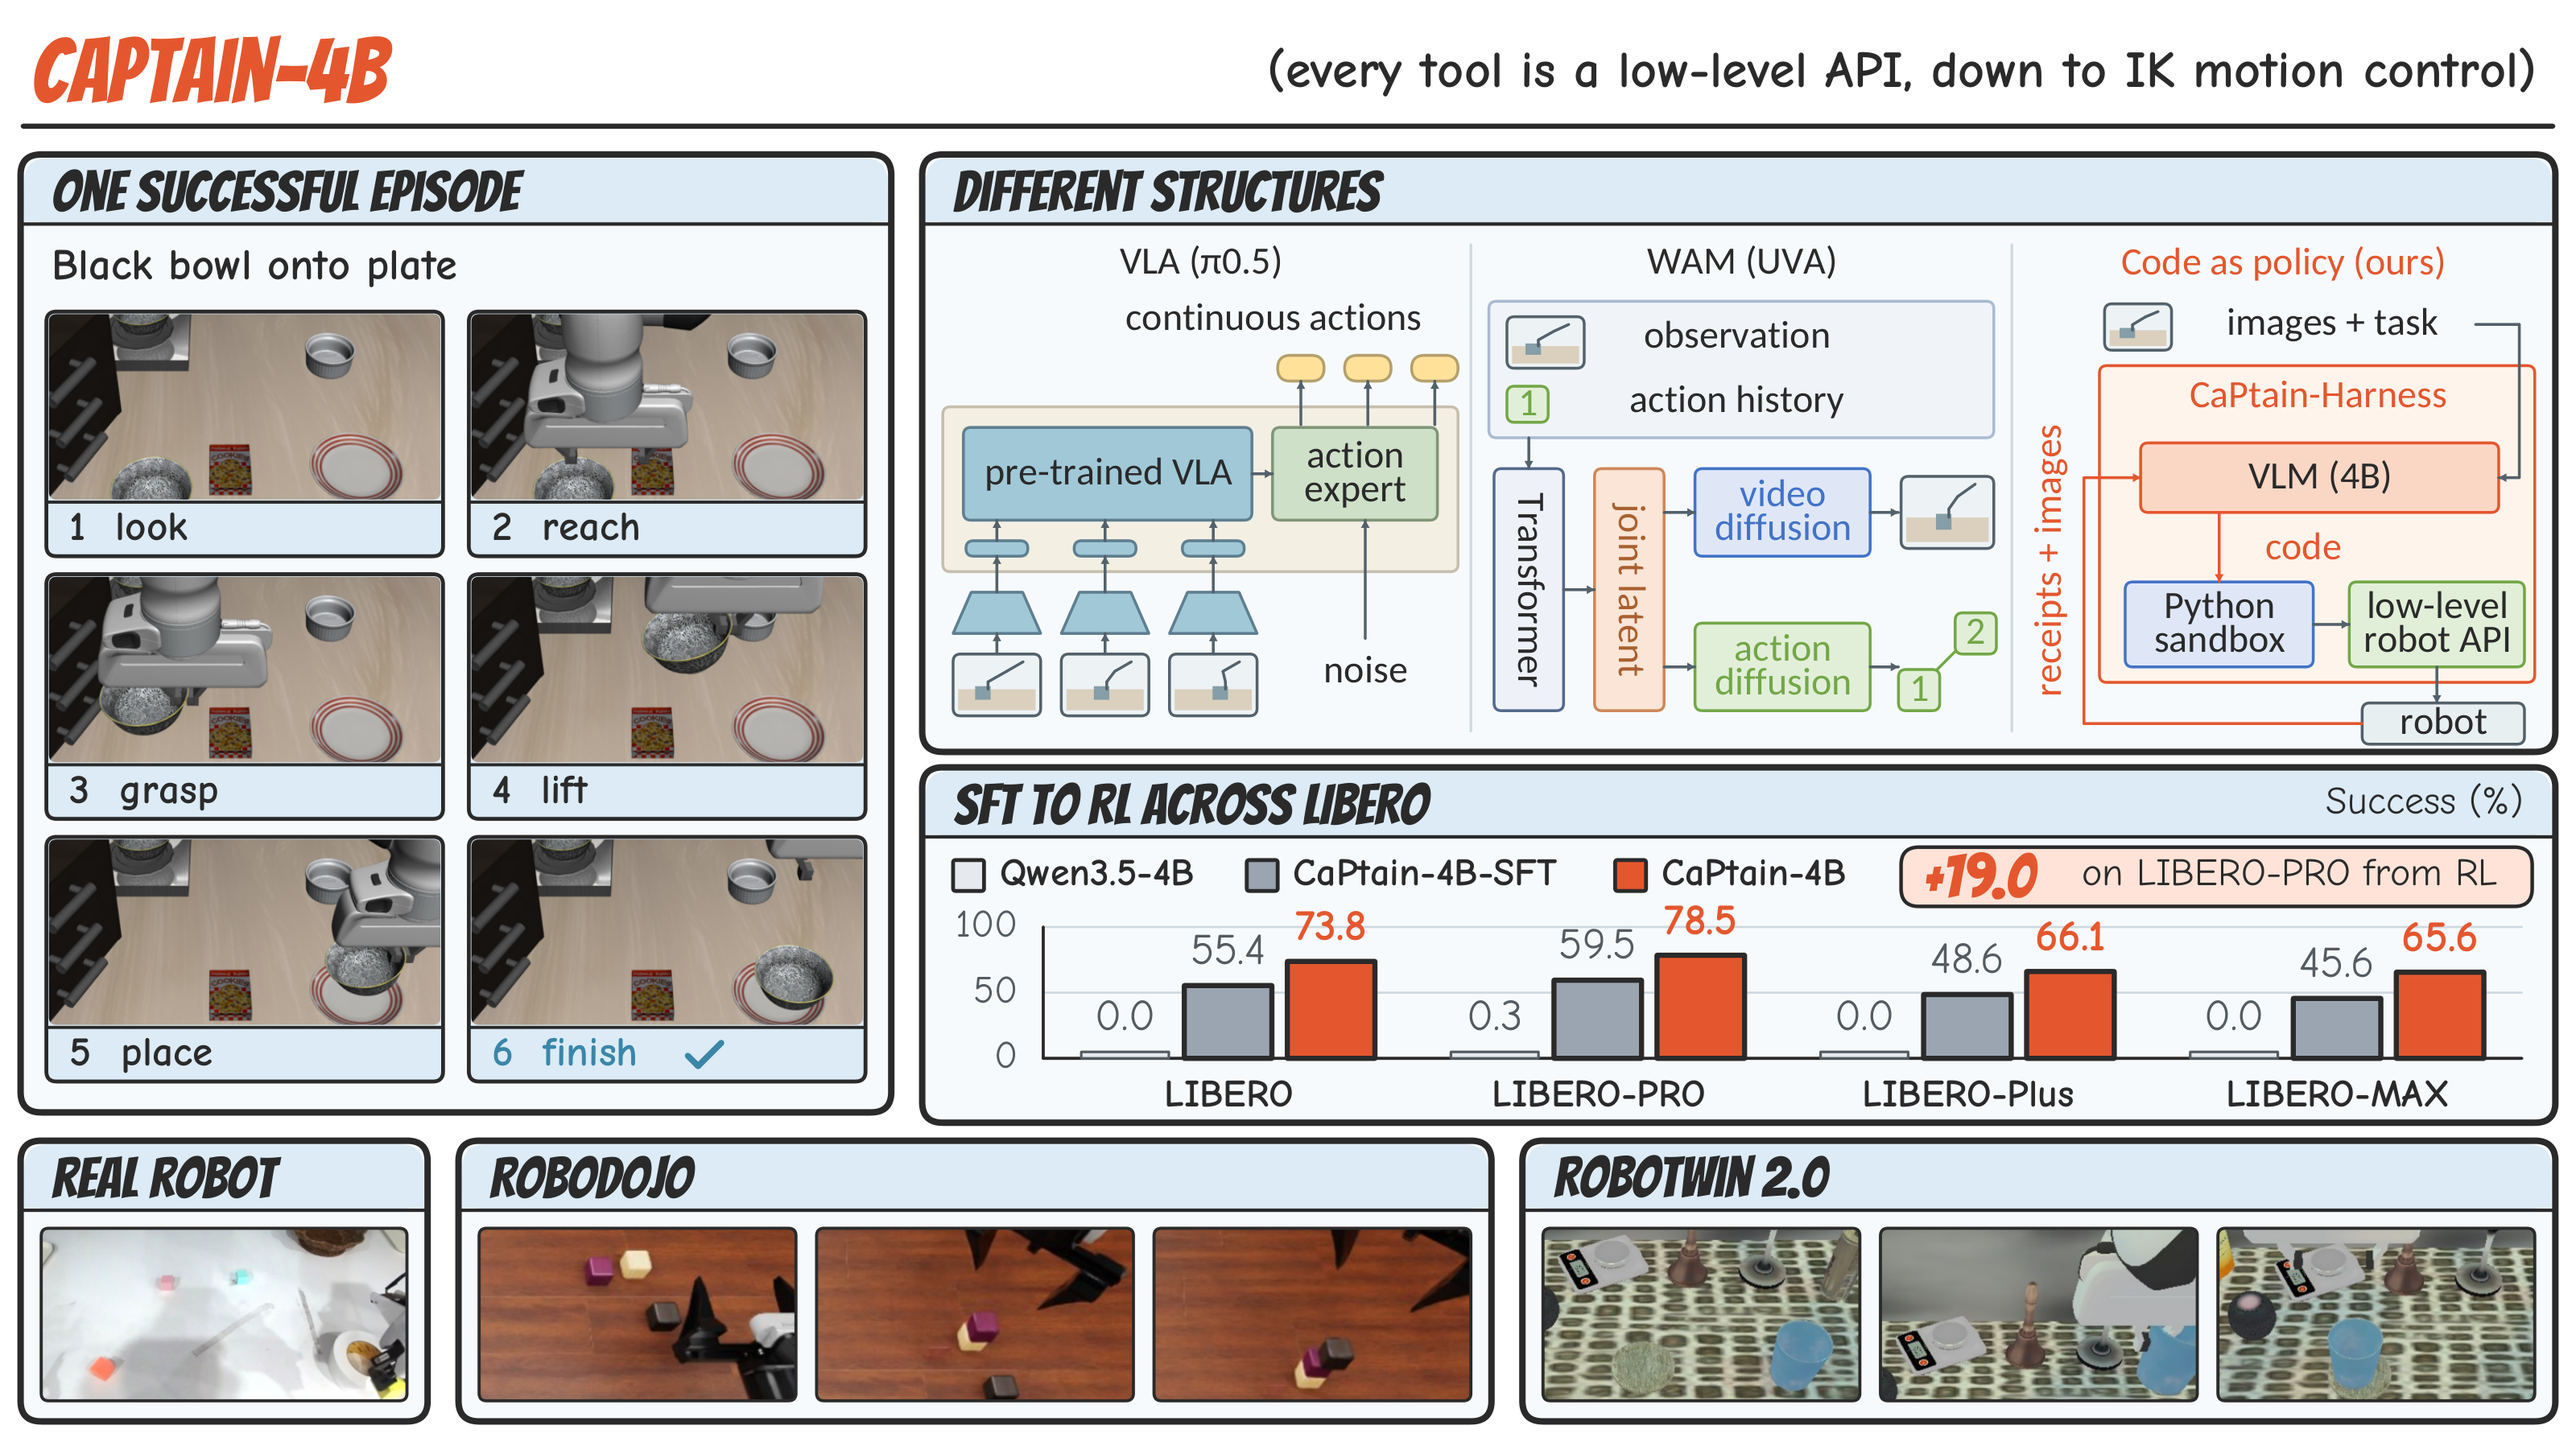
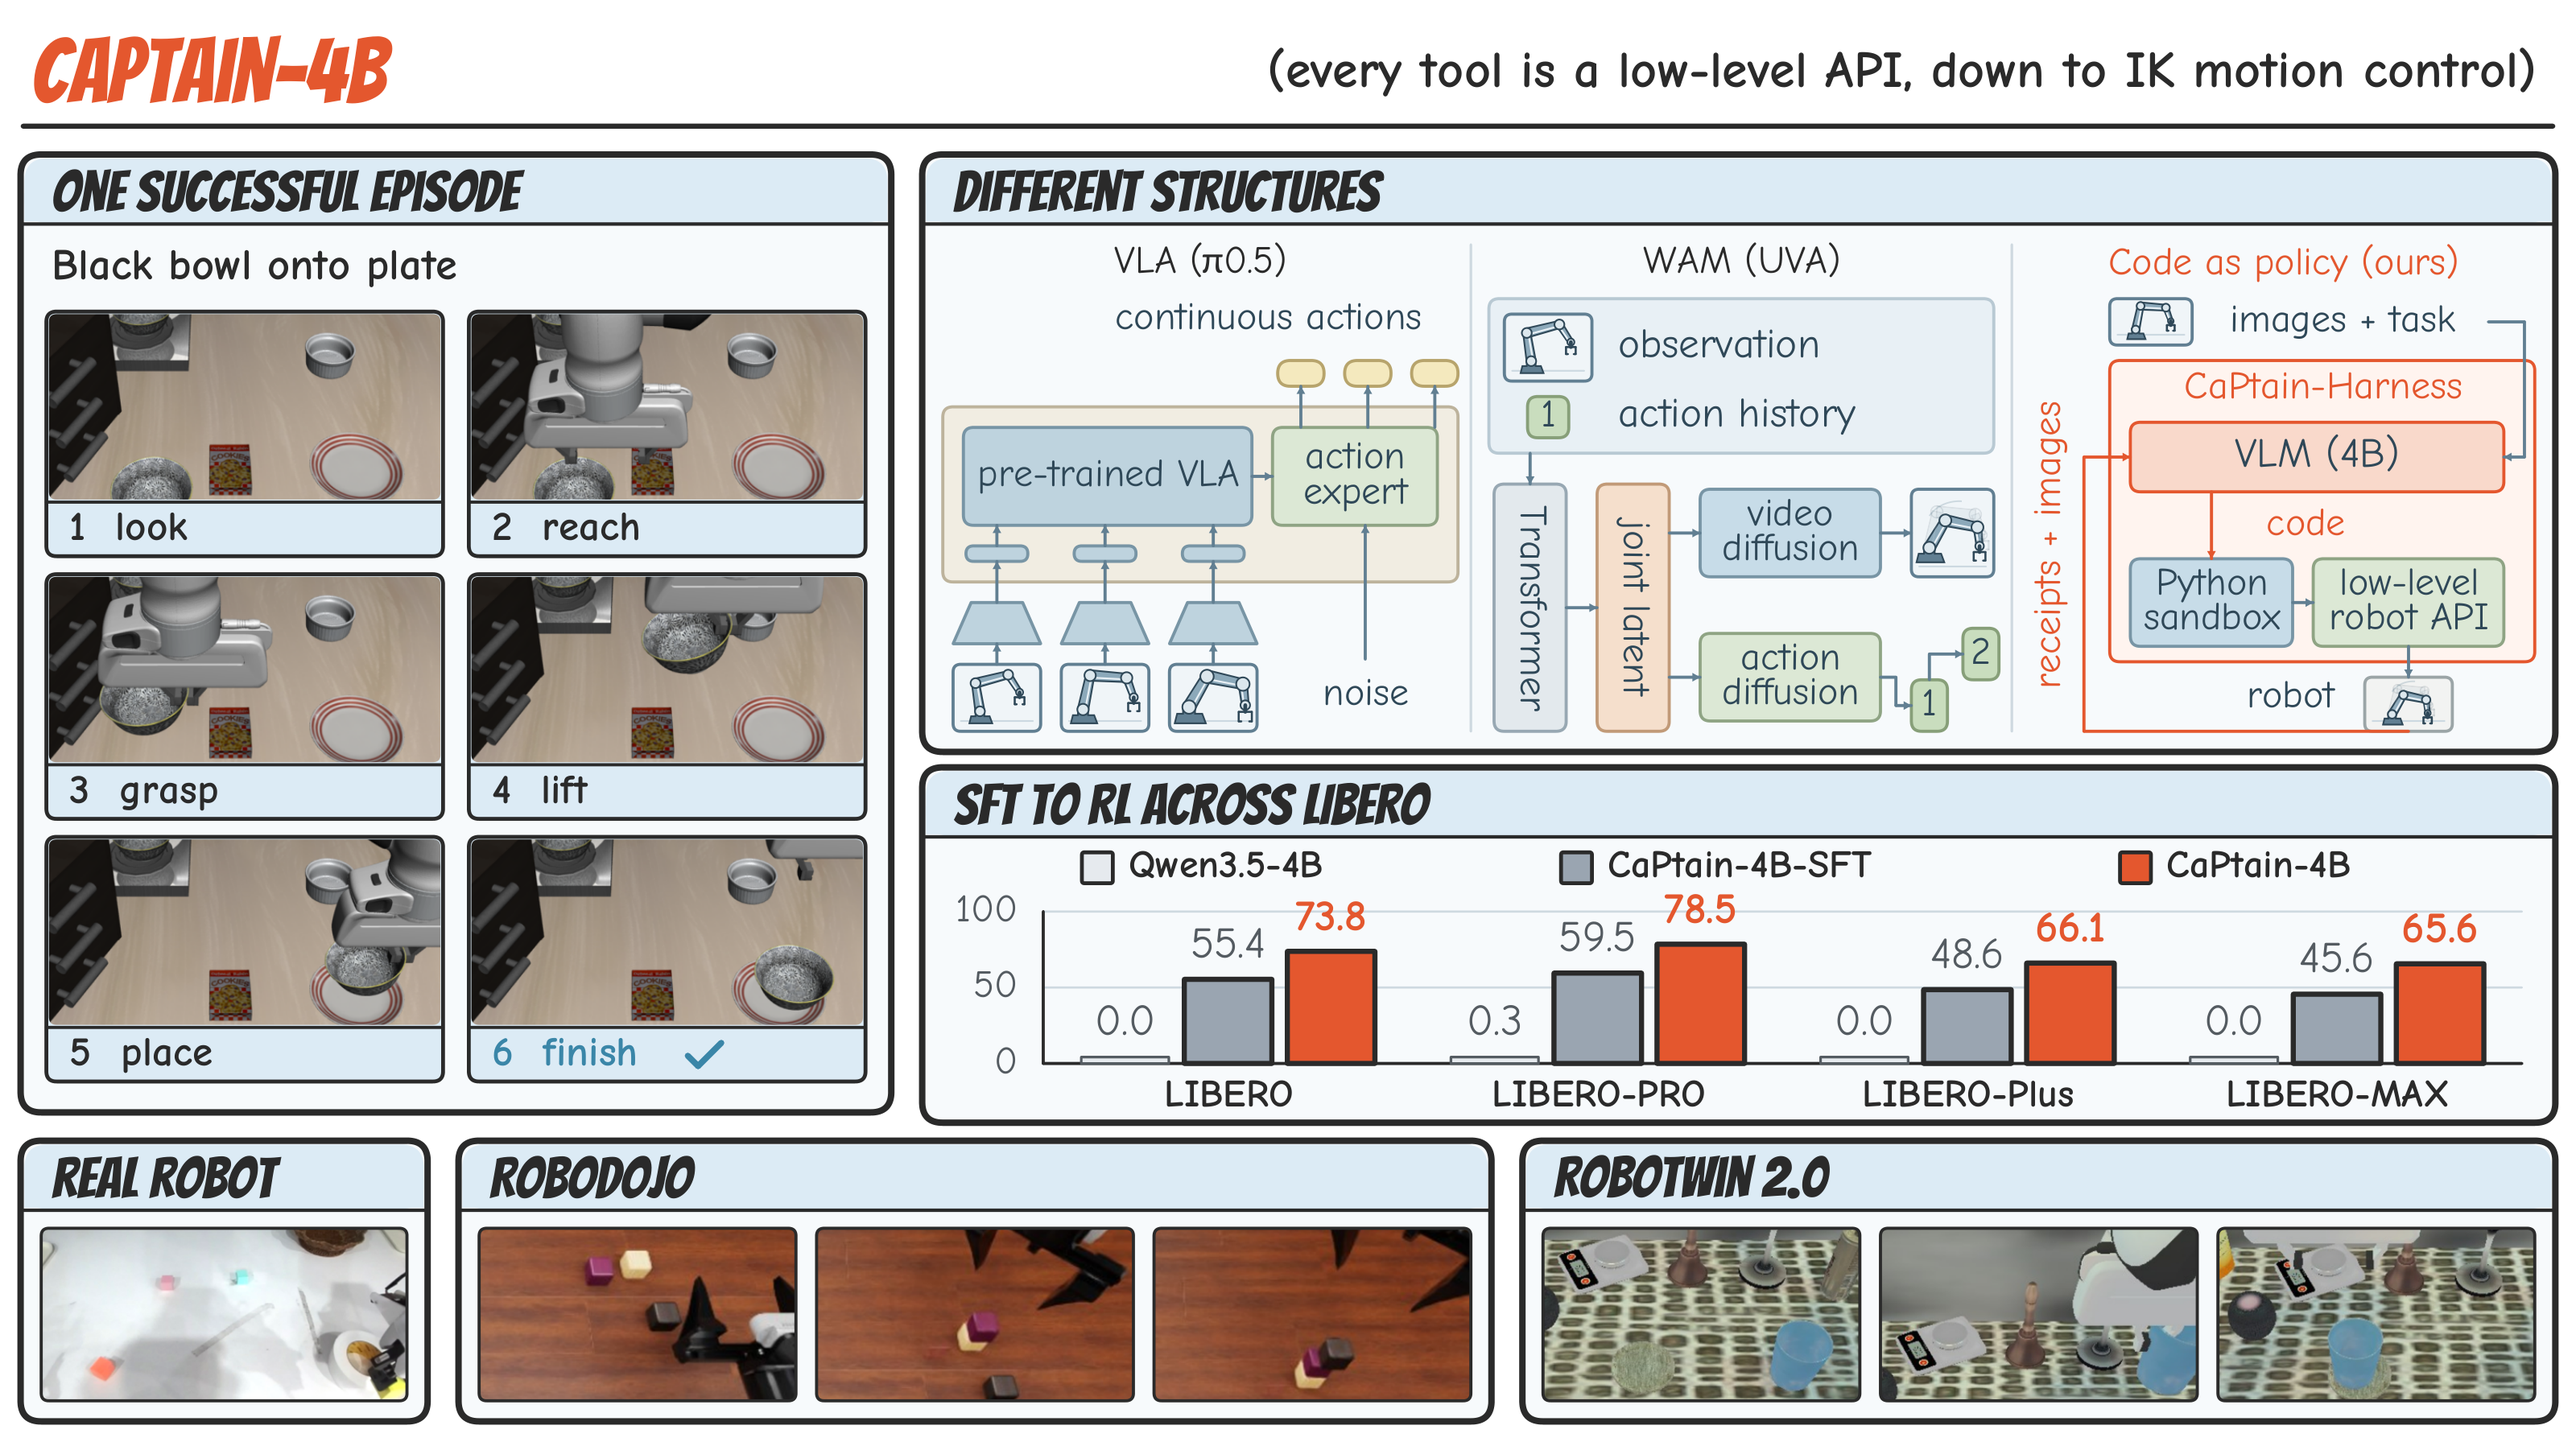
CaPtain page: polished teaser

Changed region(s): [[0.375, 0.1562, 1.0, 0.75]]

diff --git a/captain/index.html b/captain/index.html
@@ -11,8 +11,8 @@
 <meta property="og:url" content="https://waltstephen.github.io/captain/">
 <meta name="twitter:card" content="summary_large_image">
 <link rel="icon" type="image/png" href="assets/img/favicon.png">
-<link rel="stylesheet" href="css/fonts.css?v=pub19">
-<link rel="stylesheet" href="css/style.css?v=pub19">
+<link rel="stylesheet" href="css/fonts.css?v=pub20">
+<link rel="stylesheet" href="css/style.css?v=pub20">
 <script>
   /* apply the saved / preferred theme before first paint */
   (function () {
@@ -114,11 +114,11 @@
     </div>
     <div class="card reveal" id="figStack">
       <figure class="figure" data-fig="0">
-        <img class="zoomable" src="assets/img/teaser.png?v=pub19" alt="CaPtain-4B at a glance: one successful episode, SFT to RL across LIBERO, LIBERO-PRO comparison, real robot, cost and zero-shot transfer" width="3200" height="1792">
+        <img class="zoomable" src="assets/img/teaser.png?v=pub20" alt="CaPtain-4B at a glance: one successful episode, SFT to RL across LIBERO, LIBERO-PRO comparison, real robot, cost and zero-shot transfer" width="3200" height="1792">
         <figcaption><b>CaPtain-4B at a glance.</b> A small, open code-as-policy agent: one successful LIBERO episode (look, reach, grasp, lift, place, finish), SFT → RL across the LIBERO family, its place among published LIBERO-PRO systems, the real robot, cost, and zero-shot transfer.</figcaption>
       </figure>
       <figure class="figure" data-fig="1" hidden>
-        <img class="zoomable" src="assets/img/method_overview.png?v=pub19" alt="Overview of CaPtain: inference in CaPtain-Harness (top) and training and test (bottom)" width="3200" height="1664" loading="lazy">
+        <img class="zoomable" src="assets/img/method_overview.png?v=pub20" alt="Overview of CaPtain: inference in CaPtain-Harness (top) and training and test (bottom)" width="3200" height="1664" loading="lazy">
         <figcaption><b>Overview of CaPtain.</b> <i>Top:</i> one episode in CaPtain-Harness. At each request the policy writes a Python cell against a low-level API and receives text receipts and new images, for up to 60 requests. <i>Bottom:</i> SFT on synthetic agent trajectories, then RL in which a simulator critic turns privileged physical state into per-request credit; the critic is removed at test time.</figcaption>
       </figure>
       <figure class="figure" data-fig="2" hidden>
@@ -370,9 +370,9 @@
 <div class="lightbox" id="lightbox" role="dialog" aria-modal="true" aria-label="Enlarged view"></div>
 <div class="tip" id="tip" role="tooltip"></div>
 
-<script src="data/episodes.js?v=pub19"></script>
-<script src="data/tables.js?v=pub19"></script>
-<script src="js/main.js?v=pub19"></script>
+<script src="data/episodes.js?v=pub20"></script>
+<script src="data/tables.js?v=pub20"></script>
+<script src="js/main.js?v=pub20"></script>
 <script>setTimeout(function(){document.querySelectorAll(".reveal:not(.in)").forEach(function(e){var r=e.getBoundingClientRect();if(r.top<innerHeight)e.classList.add("in")})},2500);</script>
 </body>
 </html>
